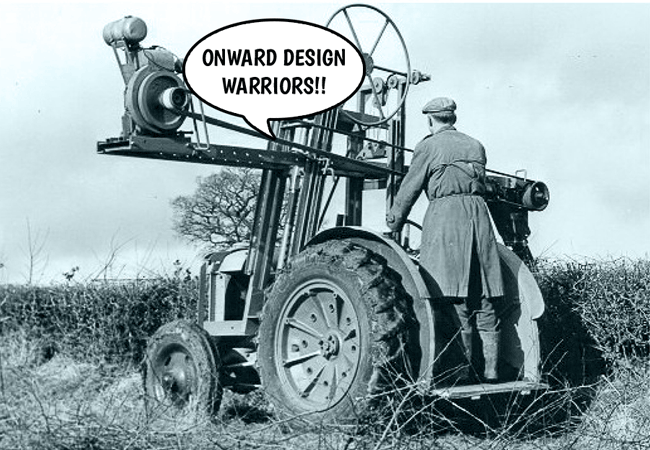
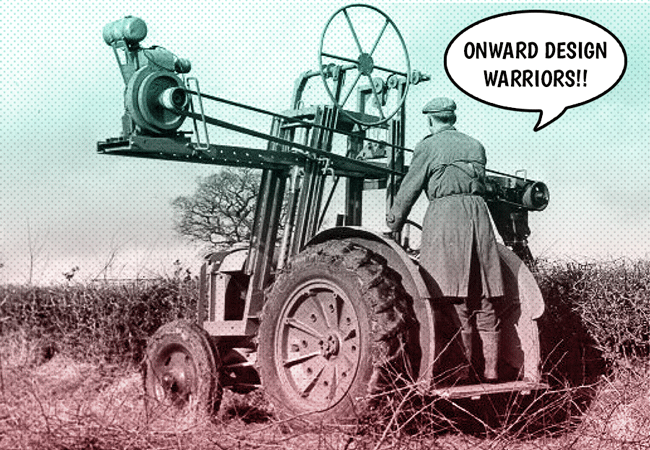
ui chnges, pics

diff --git a/wds_website/src/Components/ui_design.js b/wds_website/src/Components/ui_design.js
@@ -3,6 +3,7 @@ import bg_ui from '../images/backgrounds/bg-ui.png';
 import finding from '../images/photos/photo-documentation-s1.png';
 import didyouknow from '../images/graphic-didyouknow.png';
 import finding_truth2 from '../images/photos/photo-finding-truth-s2.png';
+import ui_s1 from '../images/photos/photo-ui-s1.png';
 
 
 class ui_design extends Component {
@@ -28,8 +29,8 @@ class ui_design extends Component {
                              
                 </div>
                 <div className="item-a-nb container-image-block">
-                    <img className="container-photo-callout" src={finding_truth2}  alt="shaking hands" /> 
-                </div>
+                    <img className="container-photo-callout" src={ui_s1}  alt="shaking hands" /> 
+                </div>Image by Avi Chomotovski from Pixabay 
             </section>
     
             <section className="content-header flex-layout-center-center flex-layout-column margin-top-200 ">
